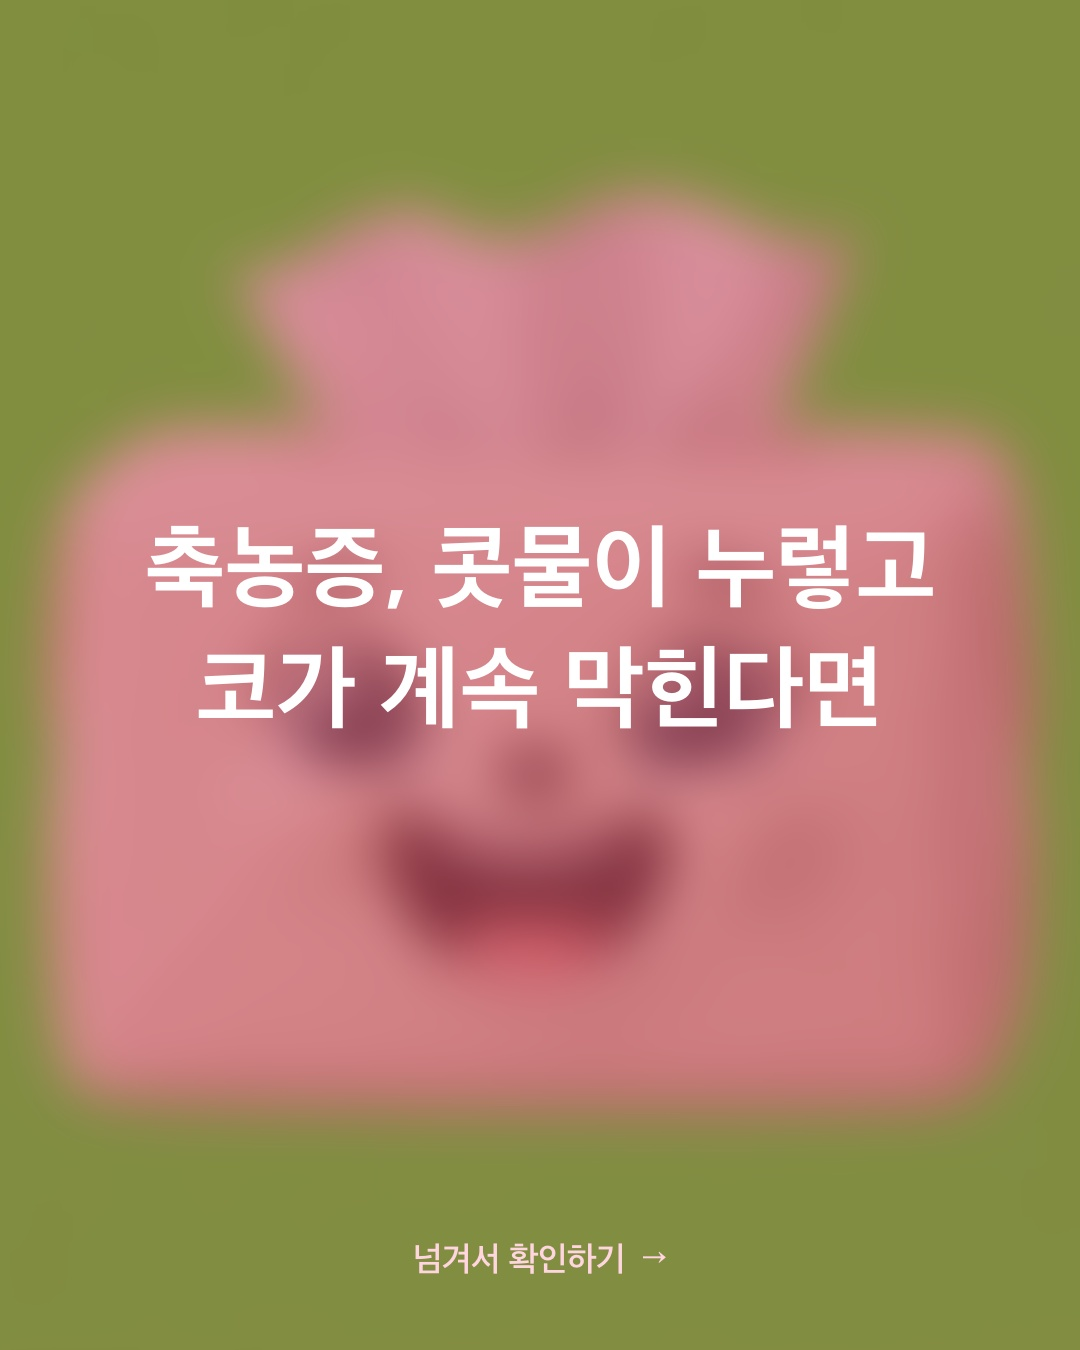
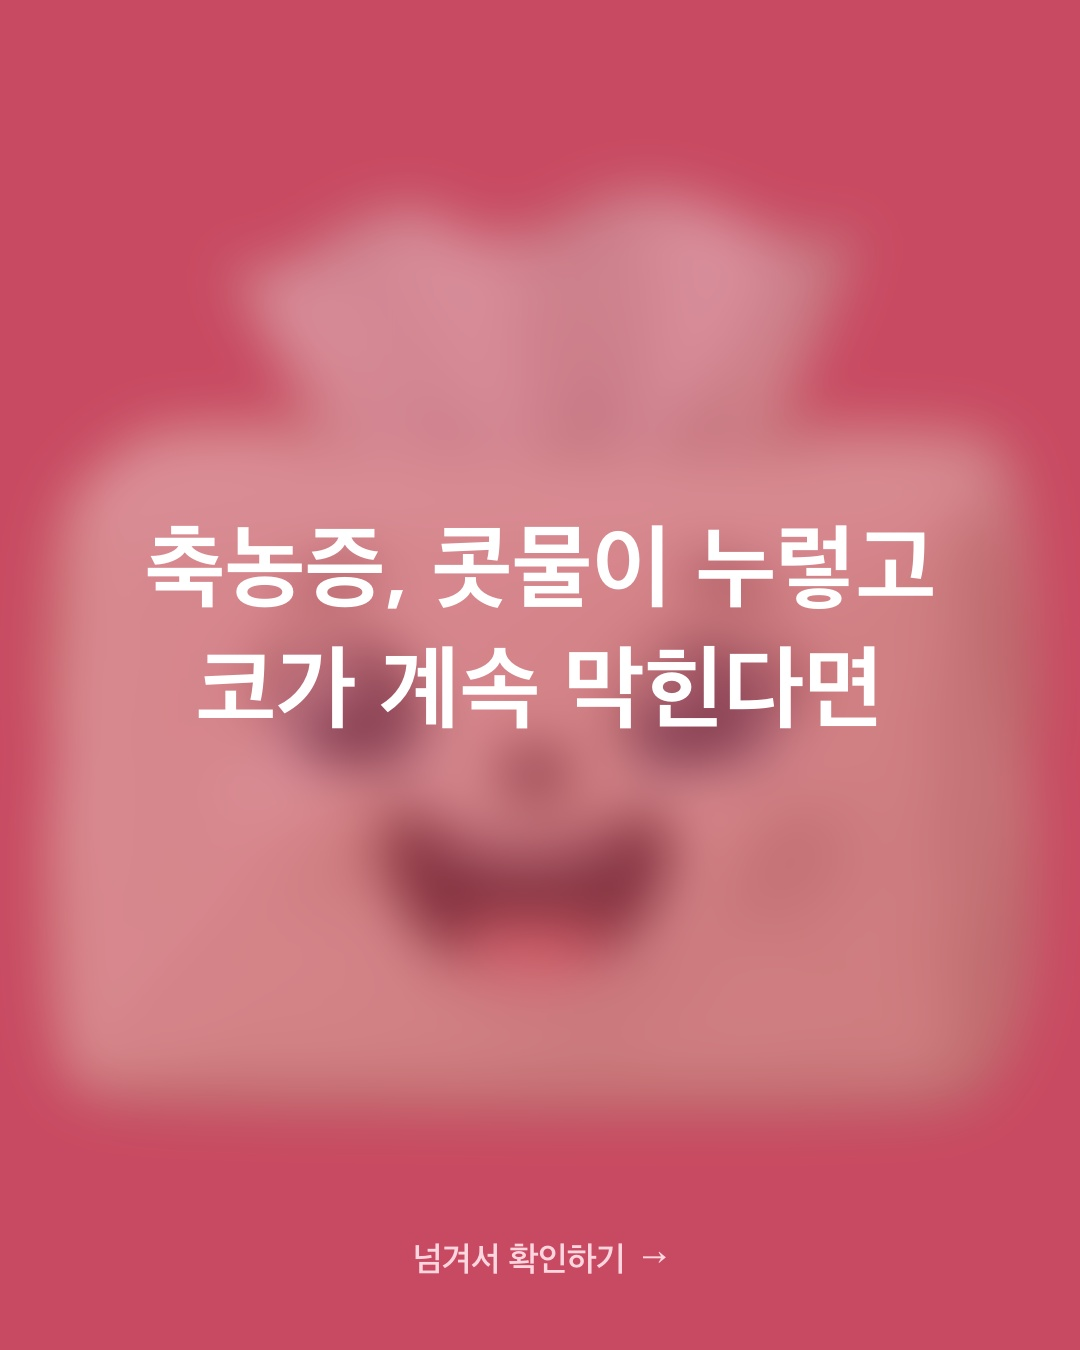
fix(cover): 타이틀 카드/카드뉴스 표지 블러 배경에 크로마키 색 잔존 수정
lib/card_news.py의 make_cover_titlecard와 lib/video_assembler.py의
_make_title_card_png 둘 다, char_path 캐릭터 이미지를 크로마 제거 없이
그대로 리사이즈+블러한 뒤 반투명(alpha=150) scrim만 얹었다 — 캐릭터가
정사각 프레임을 꽉 안 채우는 소스(예: 휴지_illust.jpg)는 블러된 배경의
초록/시안 크로마키 색이 스크림 밑으로 그대로 비쳐서 표지가 초록·핑크로
얼룩덜룩하게 보였다("UI 왜이렇게됐지" 사용자 리포트, output/코_4/ko의
표지에서 실측 확인). 블러 전에 크로마를 제거하고 accent/scrim_color로
불투명하게 배경을 채운 뒤 블러하도록 수정 — 이제 블러 결과가 캐릭터색
아니면 브랜드색뿐이라 원본 배경색이 안 남는다.

코_4/ko 표지 이미지 재생성해서 실제로 반영. 다른 기존 표지들은 소급
재생성 안 함(프로스펙티브만).

부수 발견: 이 세션 이전 작업 상당수가 시스템 python3(3.9.6, X | None
문법 미지원)로 실행되고 있었음 — lib/card_news.py는 `from __future__
import annotations`가 없어서 이 인터프리터로는 import 자체가 실패한다.
`.venv/bin/python3`(3.11.15)가 이 프로젝트의 실제 환경이므로 앞으로
스크립트 실행 시 이걸 쓸 것.

diff --git a/lib/video_assembler.py b/lib/video_assembler.py
@@ -446,6 +446,23 @@ def _title_card_style_for_seed(seed: str) -> str:
     return _TITLE_CARD_STYLES[idx]
 
 
+def _remove_chroma_bg(img: Image.Image, thresh: int = 160) -> Image.Image:
+    """캐릭터 일러스트의 크로마키 배경(코너 픽셀 색을 자동으로 키 색상 채택 —
+    캐릭터 자체가 초록 계열이면 배경이 파란/마젠타로 바뀌므로 하드코딩 금지)을
+    투명 처리한다 — `lib/card_news.py`의 `_remove_chroma_bg`와 동일한 원리(각
+    파일이 이 작은 유틸을 독립적으로 갖는 기존 컨벤션을 따름)."""
+    img = img.convert("RGBA")
+    key = img.getpixel((2, 2))[:3]
+    kr, kg, kb = key
+    pixels = img.load()
+    for y in range(img.height):
+        for x in range(img.width):
+            r, g, b, a = pixels[x, y]
+            if abs(r - kr) + abs(g - kg) + abs(b - kb) < thresh:
+                pixels[x, y] = (r, g, b, 0)
+    return img
+
+
 def _make_title_card_png(text: str, out_path: Path, font_size=88, char_path: str | None = None,
                           lang: str = "kor", accent_color: tuple[int, int, int] = (200, 74, 98),
                           y_bias: float = 0.5, style: str = "plain"):
@@ -463,9 +480,17 @@ def _make_title_card_png(text: str, out_path: Path, font_size=88, char_path: str
     등)는 영향 없음 — assemble()만 title 기준 시드로 계산해서 넘긴다."""
     img = Image.new("RGB", (W, H), accent_color)
     if char_path:
-        target = int(H * 1.15)
-        char = Image.open(char_path).convert("RGB").resize((target, target))
-        char = char.filter(ImageFilter.GaussianBlur(25))
+        # WHY 블러 전에 크로마 제거+accent_color로 배경 채우기(2026-08-12,
+        # "UI 왜이렇게됐지" — lib/card_news.py의 make_cover_titlecard에서
+        # 같은 문제를 실측하고 고친 뒤 여기도 동일 적용): 캐릭터가 정사각
+        # 프레임을 꽉 안 채우는 소스는 원본 크로마 배경색이 블러+반투명
+        # 스크림 밑으로 그대로 비쳐서 타이틀 카드가 얼룩덜룩하게 보였다.
+        raw = Image.open(char_path).convert("RGB").resize((int(H * 1.15), int(H * 1.15)))
+        chroma = _remove_chroma_bg(raw)
+        filled = Image.new("RGB", chroma.size, accent_color)
+        filled.paste(chroma, (0, 0), chroma)
+        target = chroma.size[0]
+        char = filled.filter(ImageFilter.GaussianBlur(25))
         left, top = (target - W) // 2, (target - H) // 2
         char = char.crop((left, top, left + W, top + H))
         scrim = Image.new("RGBA", (W, H), (*accent_color, 150))

diff --git a/lib/card_news.py b/lib/card_news.py
@@ -212,9 +212,20 @@ def make_cover_titlecard(hook_text: str, out_path, font_size: int = 92, char_pat
     달라진다. 기본값은 브랜드 ACCENT(로즈핑크) 그대로 유지, 필요할 때만 넘긴다."""
     img = Image.new("RGB", (W, H), scrim_color)
     if char_path:
-        target = int(H * 1.15)
-        char = Image.open(char_path).convert("RGB").resize((target, target))
-        char = char.filter(ImageFilter.GaussianBlur(25))
+        # WHY 블러 전에 크로마 제거+scrim_color로 배경 채우기(2026-08-12,
+        # "UI 왜이렇게됐지" — 코_4 표지에서 실제로 발견): 원본 캐릭터 소스는
+        # 초록/시안 크로마키 배경으로 만들어지는데, 여기선 그 원본을 그대로
+        # 리사이즈·블러했다 — 캐릭터가 정사각 프레임을 꽉 안 채우는 소스는
+        # (예: 휴지_illust.jpg) 블러 후에도 배경의 초록이 절반 투명 스크림
+        # 밑으로 그대로 비쳐서 "초록/핑크 뒤섞인 표지"처럼 보였다. 크로마를
+        # 먼저 제거하고 불투명 scrim_color로 배경을 채운 뒤 블러하면, 어디를
+        # 블러해도 캐릭터색 아니면 scrim_color뿐이라 원본 배경색이 안 남는다.
+        raw = Image.open(char_path).convert("RGB").resize((int(H * 1.15), int(H * 1.15)))
+        chroma = _remove_chroma_bg(raw)
+        filled = Image.new("RGB", chroma.size, scrim_color)
+        filled.paste(chroma, (0, 0), chroma)
+        target = chroma.size[0]
+        char = filled.filter(ImageFilter.GaussianBlur(25))
         left, top = (target - W) // 2, (target - H) // 2
         char = char.crop((left, top, left + W, top + H))
         scrim = Image.new("RGBA", (W, H), (*scrim_color, 150))
